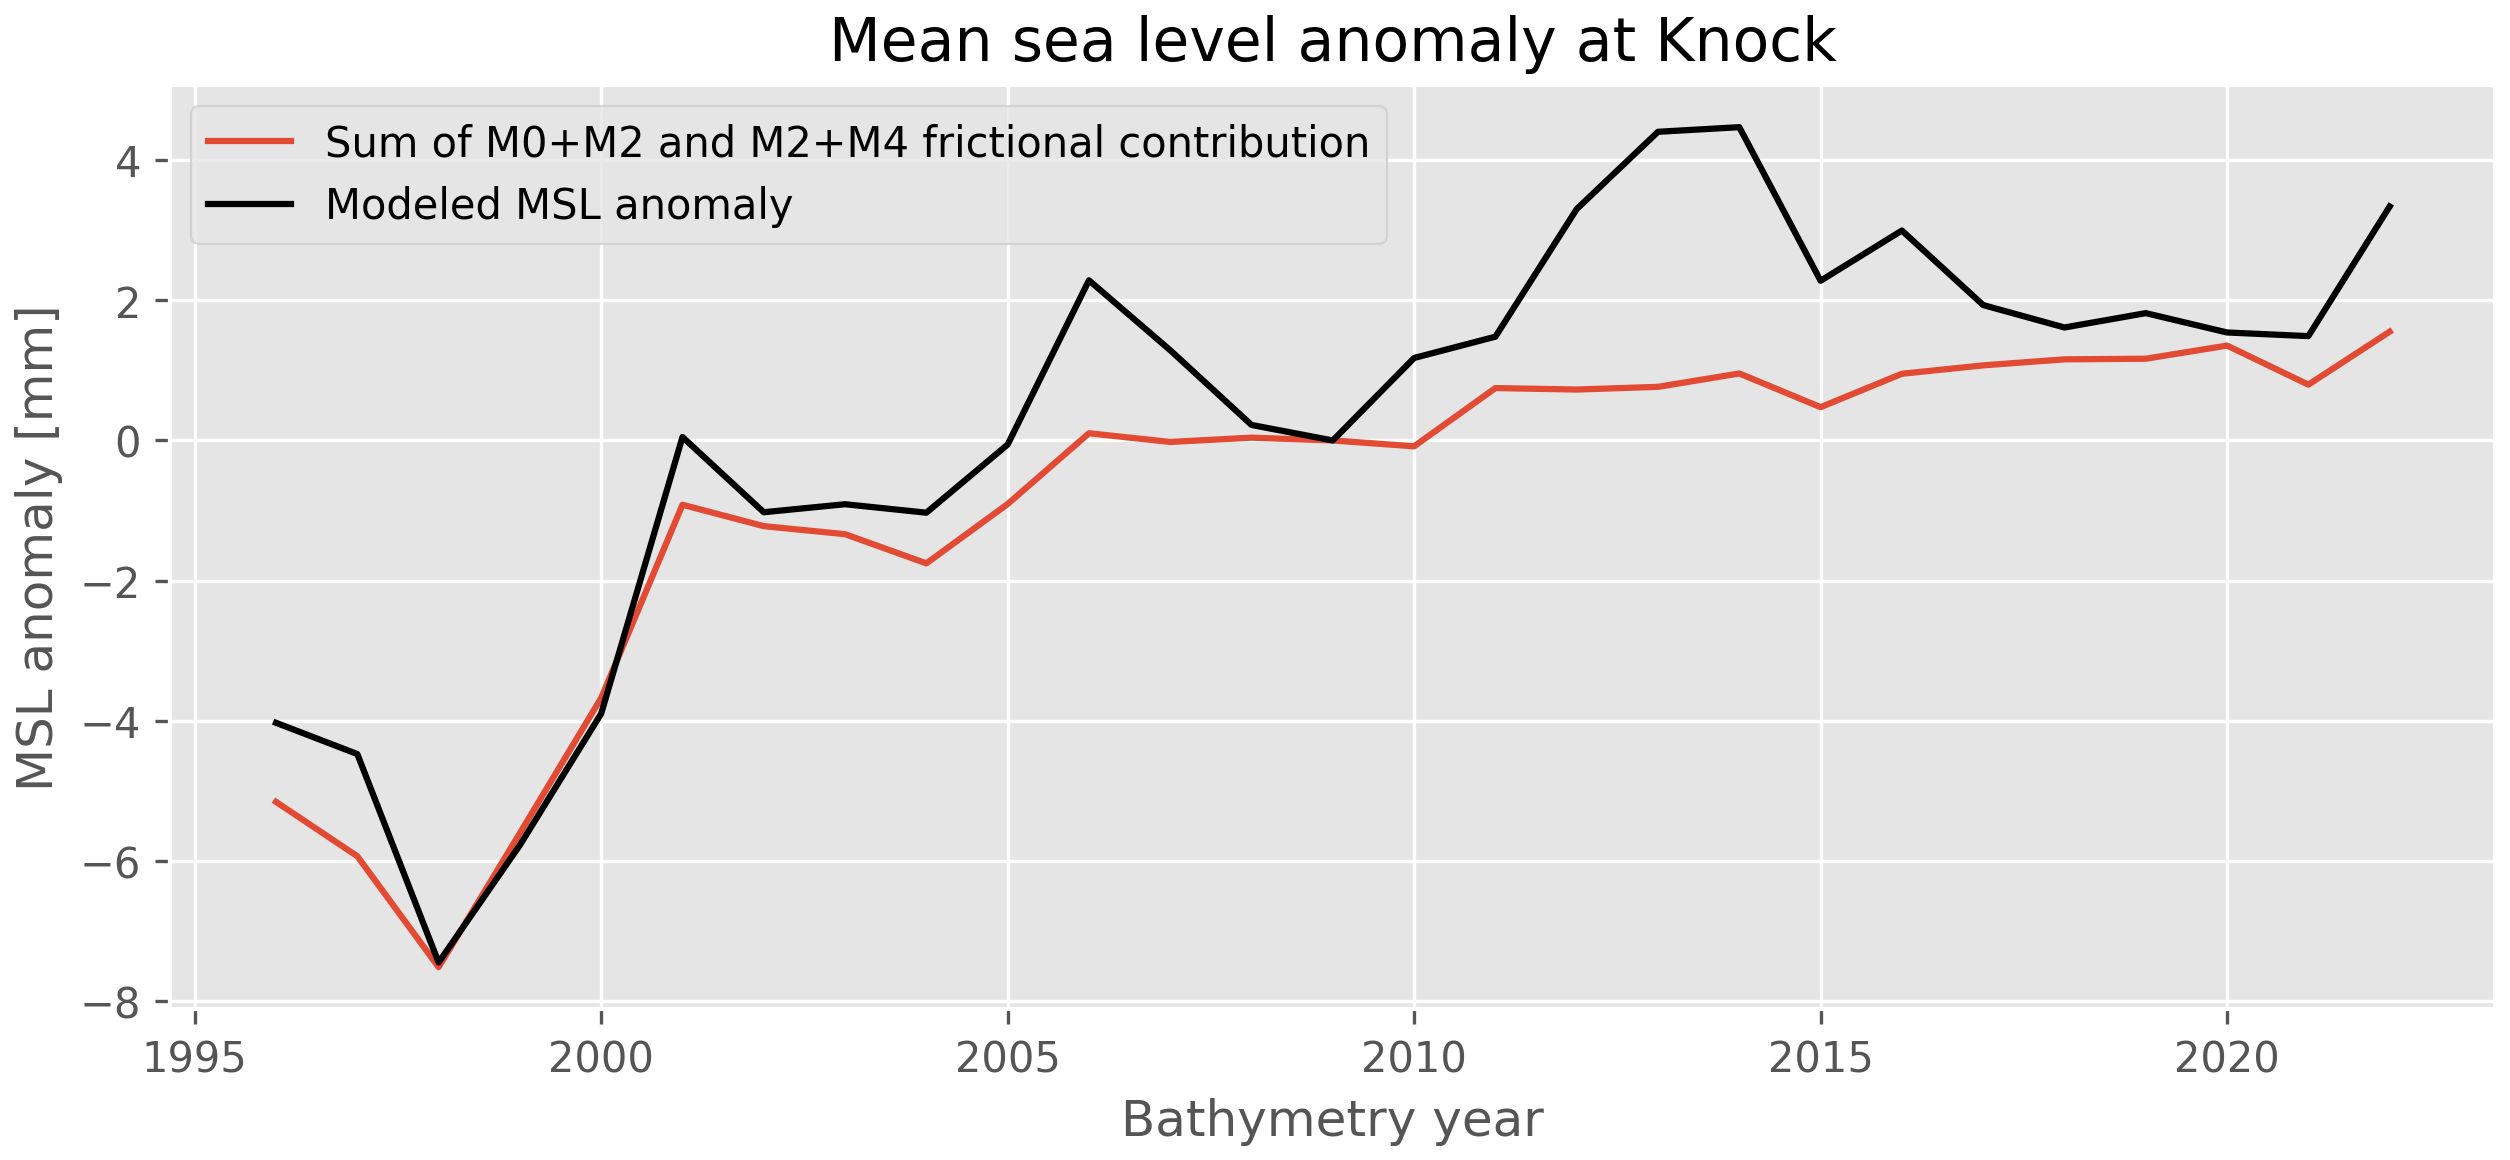
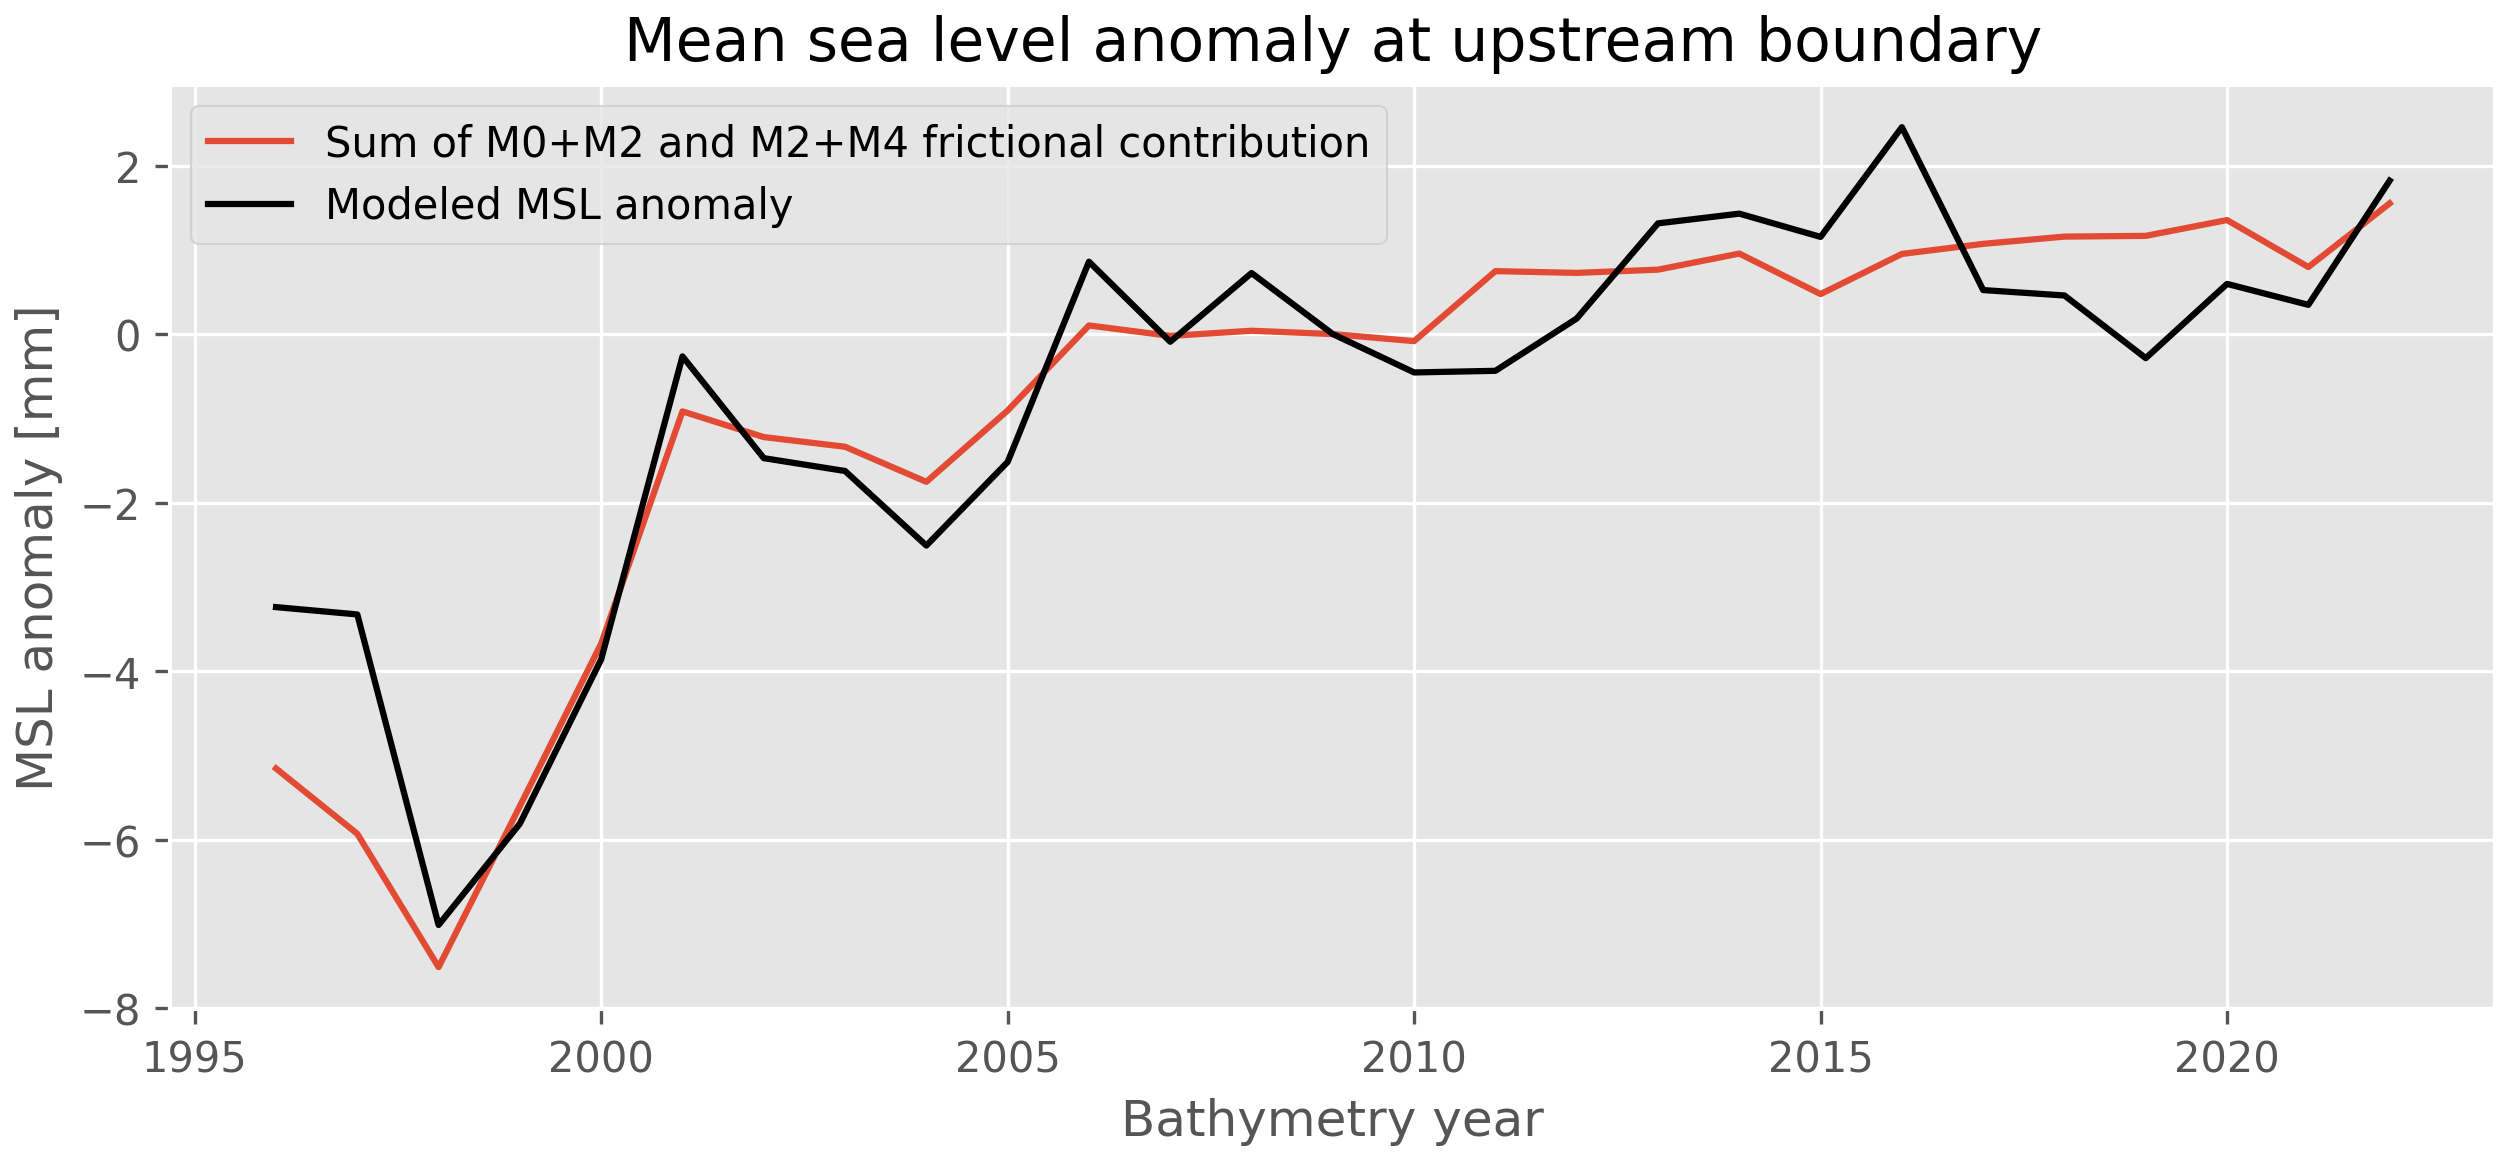
change figure 8 from knock to upstream boundary

diff --git a/scripts/visualization/Figure8.py b/scripts/visualization/Figure8.py
@@ -9,33 +9,27 @@ Created on Tue Aug 18 13:09:36 2026
 import numpy as np
 import matplotlib.pyplot as plt
 
-years = np.arange(1996, 2023)
-ts_friction_M0_M2_anomalies = np.load('../../processed_time_series/DCSM/MSL_contributions/friction_M0_M2_anomalies.npy', )
-ts_friction_M2_M4_anomalies = np.load('../../processed_time_series/DCSM/MSL_contributions/friction_M2_M4_anomalies.npy', )
-MSL_anomalies = np.load('../../processed_time_series/DCSM/MSL_anomalies.npy')
-lons = np.load('../../data/DCSM/lons.npy')
-lats = np.load('../../data/DCSM/lats.npy')
-mask_subtidal = np.load('../../data/DCSM/mask_subtidal.npy')
+def main():
+    years = np.arange(1996, 2023)
+    ts_friction_M0_M2_anomalies = np.load('../../processed_time_series/DCSM/MSL_contributions/friction_M0_M2_anomalies.npy', )
+    ts_friction_M2_M4_anomalies = np.load('../../processed_time_series/DCSM/MSL_contributions/friction_M2_M4_anomalies.npy', )
+    MSL_anomalies = np.load('../../processed_time_series/DCSM/MSL_anomalies.npy')
+    lats = np.load('../../data/DCSM/lats.npy')
+    mask_end = np.load('../../data/DCSM/mask_end.npy')
+    friction_sum_anomalies = ts_friction_M0_M2_anomalies + ts_friction_M2_M4_anomalies 
+    
+    upper_channel_indices = np.where(mask_end & (lats > 53.32239583))[0]
+    median_MSL_anomaly = np.median(MSL_anomalies[:, upper_channel_indices], axis=1)
+    
+    # Visualization
+    plt.figure(figsize=(10, 4))
+    plt.plot(years, friction_sum_anomalies, label='Sum of M0+M2 and M2+M4 frictional contribution')
+    plt.plot(years, median_MSL_anomaly, color='k', label='Modeled MSL anomaly')
+    plt.ylabel('MSL anomaly [mm]')
+    plt.xlabel('Bathymetry year')
+    plt.title('Mean sea level anomaly at upstream boundary')
+    plt.legend()
+    plt.savefig('../../figures/Figure8.png', dpi=300, bbox_inches='tight', pad_inches=0.05)
 
-def closest_N_idx(lons, lats, lon, lat, n):
-    d2 = (lons - lon)**2 + (lats - lat)**2
-    return np.argpartition(d2, n)[:n]
-
-coordinates_knock = (7.030674, 53.327173)
-
-N = 1
-indices_knock = closest_N_idx(lons, lats, coordinates_knock[0], coordinates_knock[1], N)
-indices_knock = indices_knock[mask_subtidal[indices_knock]]
-
-mean_MSL_anomaly = np.mean(MSL_anomalies[:, indices_knock], axis=1)
-
-friction_sum_anomalies = ts_friction_M0_M2_anomalies + ts_friction_M2_M4_anomalies 
-
-plt.figure(figsize=(10, 4))
-plt.plot(years, friction_sum_anomalies, label='Sum of M0+M2 and M2+M4 frictional contribution')
-plt.plot(years, mean_MSL_anomaly, color='k', label='Modeled MSL anomaly')
-plt.ylabel('MSL anomaly [mm]')
-plt.xlabel('Bathymetry year')
-plt.title('Mean sea level anomaly at Knock')
-plt.legend()
-plt.savefig('../../figures/Figure8.png', dpi=300, bbox_inches='tight', pad_inches=0.05)
+if __name__ == '__main__':
+    main()

diff --git a/scripts/analysis/DCSM_Fourier_double_difference_advection.py b/scripts/analysis/DCSM_Fourier_double_difference_advection.py
@@ -104,7 +104,7 @@ for i, meteo_yr in enumerate(meteo_years):
         "M4_u_phs_actual", "M4_v_phs_actual", "M4_u_phs_ref", "M4_v_phs_ref",
         "S2_u_phs_actual", "S2_v_phs_actual", "S2_u_phs_ref", "S2_v_phs_ref",
         "advection_M0_2009", "advection_M2_2009", "advection_M4_2009", 
-        "advection_S2_2009"]}
+        "advection_S2_2009", "mask_end"]}
         
     for j, partition_nr in enumerate(partitions):
         fn_actual = actual_folder + 'DCSM-FM_100m_00{}_fou.nc'.format(partition_nr)
@@ -219,6 +219,7 @@ for i, meteo_yr in enumerate(meteo_years):
     mask_entrance = poly_entrance.get_path().contains_points(grid_points)
     mask_end &= out['mask_subtidal']
     mask_entrance &= out['mask_subtidal']
+    out['mask_end'] = mask_end
     
     W_entrance, dy_entrance = cross_section_length(out['lon'], out['lat'], mask_entrance)
     W_end, dy_end = cross_section_length(out['lon'], out['lat'], mask_end)
@@ -295,11 +296,17 @@ for i, meteo_yr in enumerate(meteo_years):
 
     outputs.append(out)
 
-mask_subtidal = outputs[0]["mask_subtidal"].copy()
+mean_depth = np.mean(np.array([output["depth_actual"] for output in outputs]), axis=0)
+np.save('../../data/DCSM/mean_depth.npy', mean_depth)
 
+mask_subtidal = outputs[0]["mask_subtidal"].copy()
+mask_end = outputs[0]['mask_end'].copy()
 for d in outputs[1:]:
     mask_subtidal &= d["mask_subtidal"]
-    
+    mask_end &= d['mask_end']
+
+np.save('../../data/DCSM/mask_end.npy', mask_end)
+
 lons = outputs[0]['lon']
 lats = outputs[0]['lat']
 

diff --git a/scripts/analysis/DCSM_Fourier_double_difference_MSL.py b/scripts/analysis/DCSM_Fourier_double_difference_MSL.py
@@ -25,9 +25,6 @@ global mask_subtidal
 global MSL_anomalies
 
 
-
-
-
 outputs = []
 for i, meteo_yr in enumerate(meteo_years):
     actual_folder = fourier_folder + '/A04_meteo{}_bathy{}_fourier/'.format(meteo_yr, meteo_yr)
@@ -71,17 +68,26 @@ for d in outputs[1:]:
     mask_subtidal &= d["mask_subtidal"]
 
 
-
-
+lons = lons[mask_subtidal]
+lats = lats[mask_subtidal]
+MSL_trends = MSL_trends[mask_subtidal]
+MSL_anomalies = MSL_anomalies[:, mask_subtidal]
 
 def closest_N_idx(lons, lats, lon, lat, n):
     d2 = (lons - lon)**2 + (lats - lat)**2
     return np.argpartition(d2, n)[:n]
-
-N = 1
+#%%
+N = 100
 indices_knock = closest_N_idx(lons, lats, coordinates_knock[0], coordinates_knock[1], N)
-indices_knock = indices_knock[mask_subtidal[indices_knock]]
+#indices_knock = indices_knock[mask_subtidal[indices_knock]]
 
+q25_trend = np.percentile(MSL_trends[indices_knock], 25)
+median_trend = np.median(MSL_trends[indices_knock])
+q75_trend = np.percentile(MSL_trends[indices_knock], 75)
+
+plt.figure()
+plt.hist(MSL_trends[indices_knock])
+print('Median trend: {:.2f} mm/yr (IQR: {:.2f} - {:.2f})'.format(median_trend, q25_trend, q75_trend))
 mean_MSL = np.mean(MSL_anomalies[:, indices_knock], axis=1)
 
 plt.figure()

diff --git a/scripts/visualization/Figure6.py b/scripts/visualization/Figure6.py
@@ -64,16 +64,19 @@ def on_pick(event):
     MSL = MSL_anomalies[:,col]
     
     
-    
-    plt.figure()
-    plt.plot(years, MSL, c='k')
-    plt.xlabel('Time')
-    plt.ylabel('$\Delta$MSL w.r.t. 2009 bathymetry [mm]')
-    plt.title('Grid point {}'.format(col))
-    
     A = np.ones((len(years),2))
     A[:,0] = years
     xhat = np.linalg.solve(A.T @ A, A.T @ MSL)
+    
+    
+    plt.figure()
+    plt.plot(years, MSL, c='k')
+    plt.plot(years, A@xhat, 'r')
+    plt.xlabel('Time')
+    plt.ylabel('$\Delta$MSL w.r.t. 2009 bathymetry [mm]')
+    plt.title('Grid point {}, trend: {} mm/yr'.format(col, round(xhat[0],2)))
+    
+    
     residuals = A@xhat - MSL
     plot_acf(residuals, lags=10, alpha=0.05, zero=True)
     
